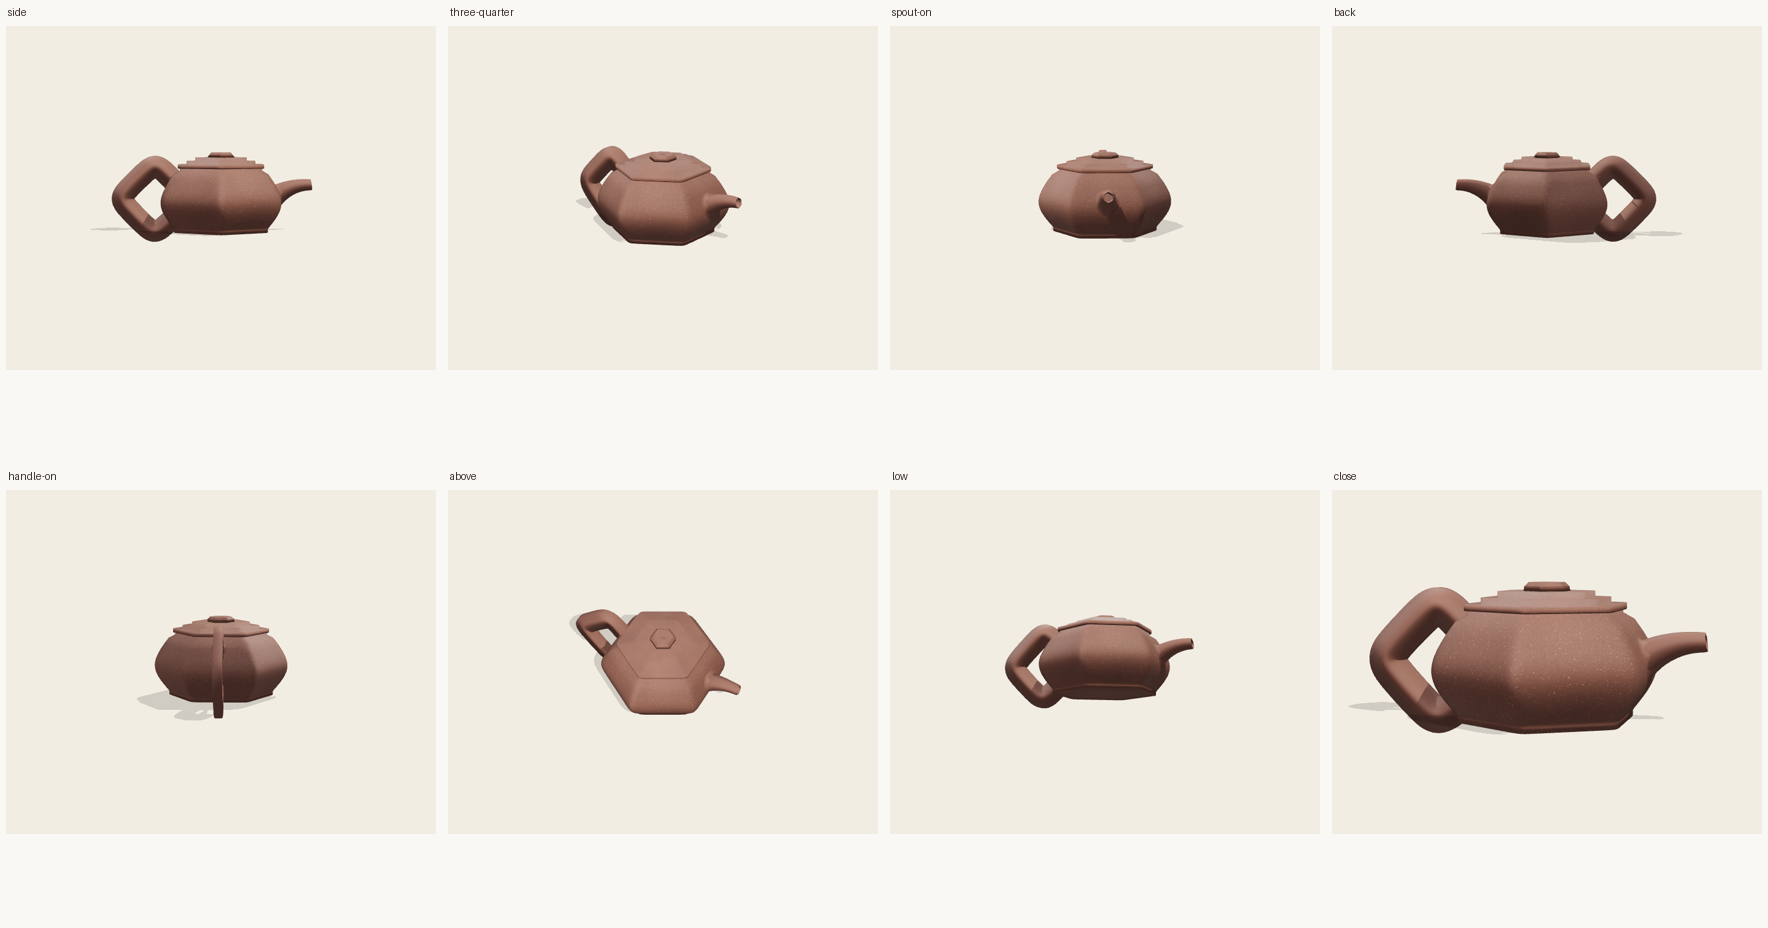
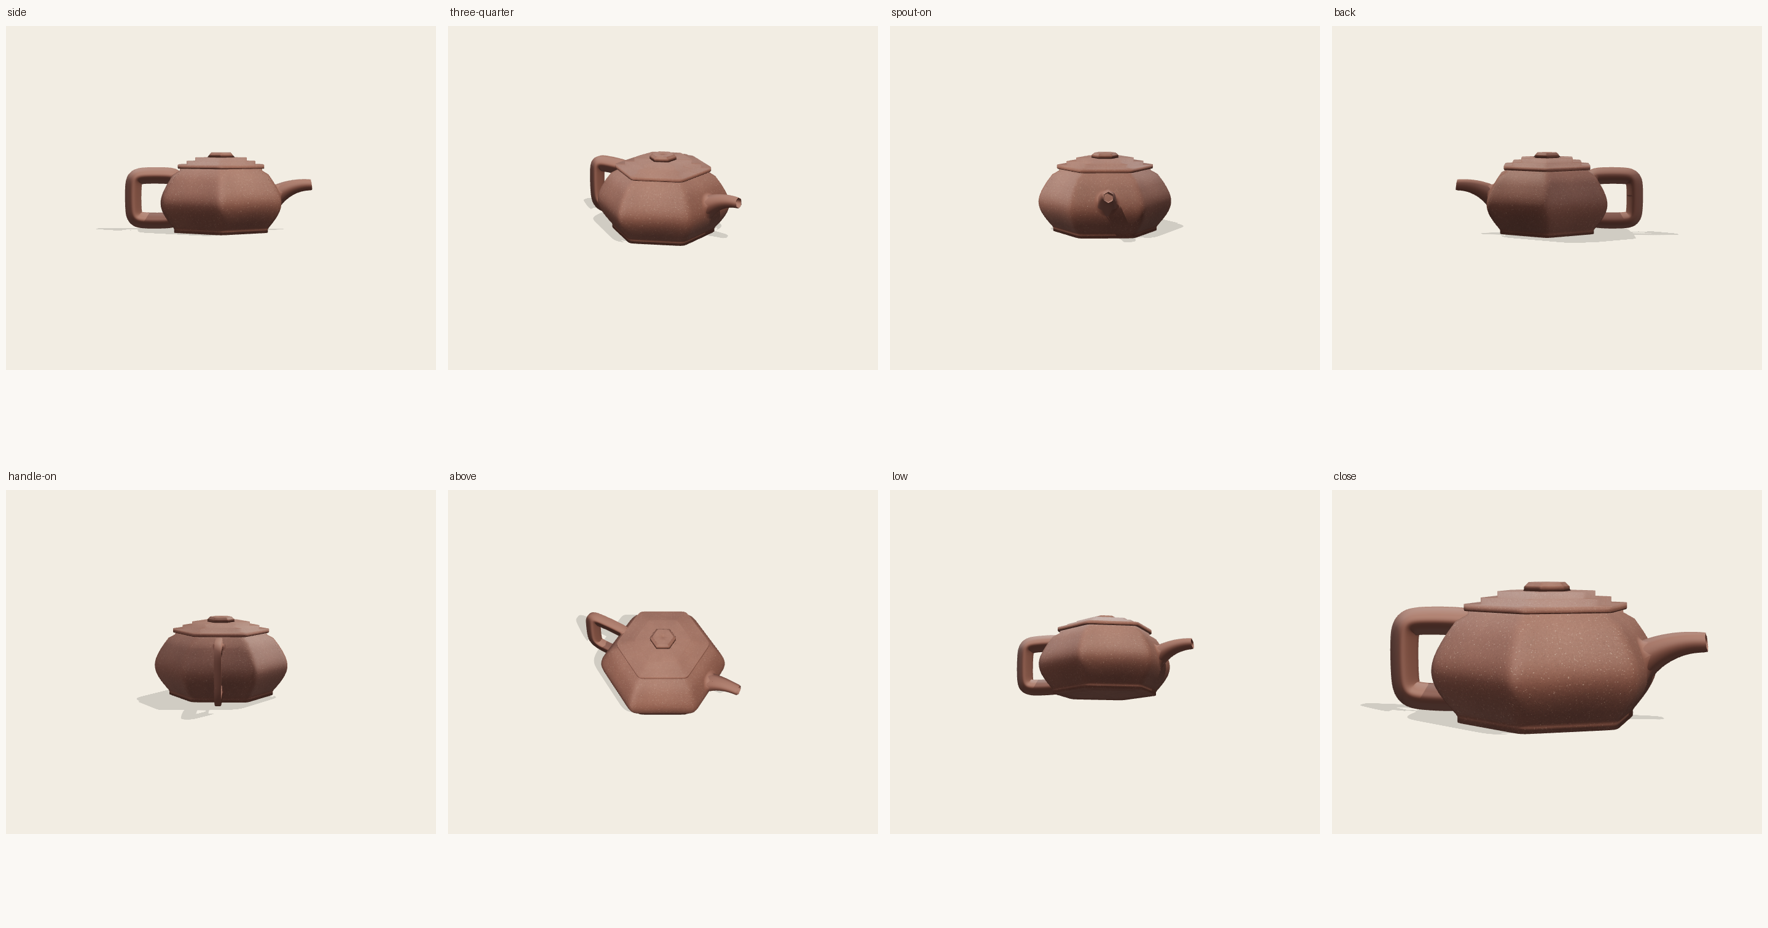
六方: the handle was a diamond because the box was phase-shifted
The squared outline was fed `a - a0 + PI`, so the rounded rectangle's faces were
oriented relative to wherever the arc happened to start rather than to the pot.
It landed corner-up: a diamond, not a square. `a` is already a world-frame angle
about the loop's centre, so passing it straight puts a flat run across the top
and a flat one down the back, which is what a 方器 handle does.

Also thinned: tube 0.060 -> 0.043 with the strap a shade wider, and the loop
brought in. A rolled slab handle is thin in the plane and wide across it; mine
was reading as heavy because it was thick in both.

Twelve-view QC; canon and details pass on all seven pots.

Claude-Session: https://claude.ai/code/session_01Au3NkrP4Zh9Vb2uEzJxxmj

diff --git a/src/components/handles.js b/src/components/handles.js
@@ -118,7 +118,12 @@ export const HANDLES = {
         // the loop's outline: a circle, optionally pushed toward a rounded
         // rectangle by the same half-plane construction the body's facets use
         const sq = p.squared ?? 0
-        const box = sq > 0 ? THREE.MathUtils.lerp(1, boxR(a - a0 + Math.PI), sq) : 1
+        // `a` is already a world-frame angle about the loop's centre, so the
+        // box's faces land where they should: flat across the top, flat down
+        // the back. Phase-shifting it by the arc's start angle — which is what
+        // this did — rotated the square into a diamond, and the amount depended
+        // on where the arc happened to begin.
+        const box = sq > 0 ? THREE.MathUtils.lerp(1, boxR(a), sq) : 1
         const r = radius * box * (1 + drop * Math.sin(Math.PI * Math.pow(t, 0.6)))
         pts.push(new THREE.Vector3(
           centre.x + r * Math.cos(a),
